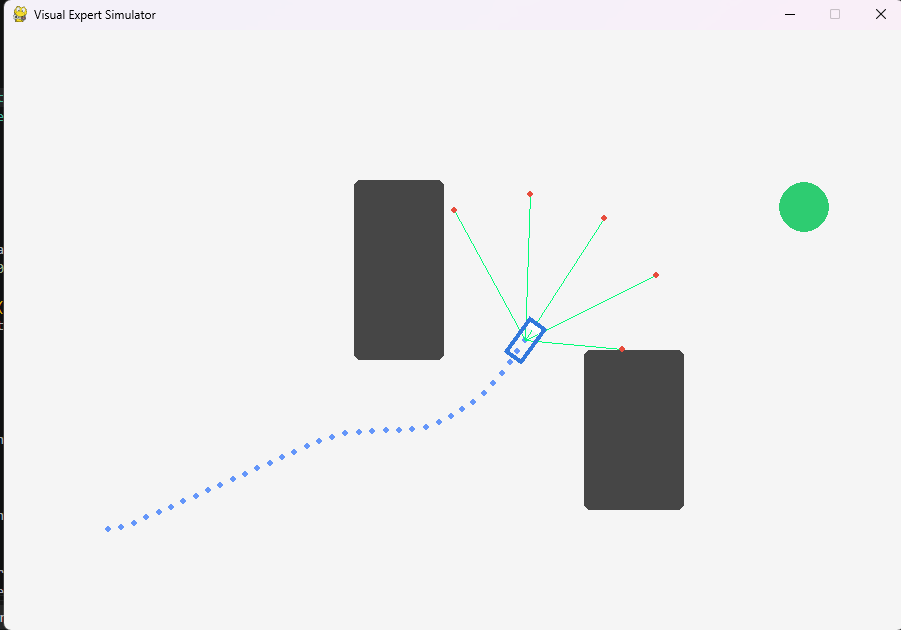
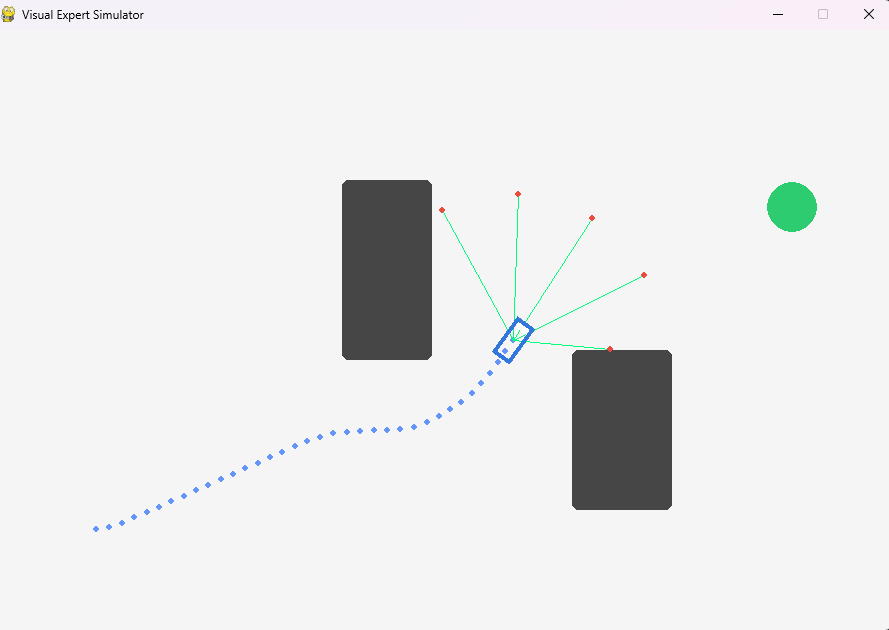
change read me

diff --git a/README.md b/README.md
@@ -2,14 +2,17 @@
 
 An autonomous navigation path planner built from scratch in PyTorch, utilizing **Conditional Flow Matching (CFM)** to morph straight-line priors into collision-free, expert trajectories via ODE integration.
 
+Here the 2D car including the simulated lidar sensor can be seen. The car can accelerate and steer. An implemented "expert system" controls the car which is done by pulling the car to the goal and pushing it away from objects. 
 <p align="center">
   <img src="screenshots/expert_drive.png" alt="Path Planning Simulation" width="700">
 </p>
 
+This is an overview of the successful paths generated by the expert system.
 <p align="center">
   <img src="screenshots/trajectory_generation_expert.png" alt="Path Planning Simulation" width="700">
 </p>
 
+A MLP is then trained on the generated data. This screenshot shows paths created by using flow matching. 
 <p align="center">
   <img src="screenshots/trajectories_flow_matching.png" alt="Path Planning Simulation" width="700">
 </p>
